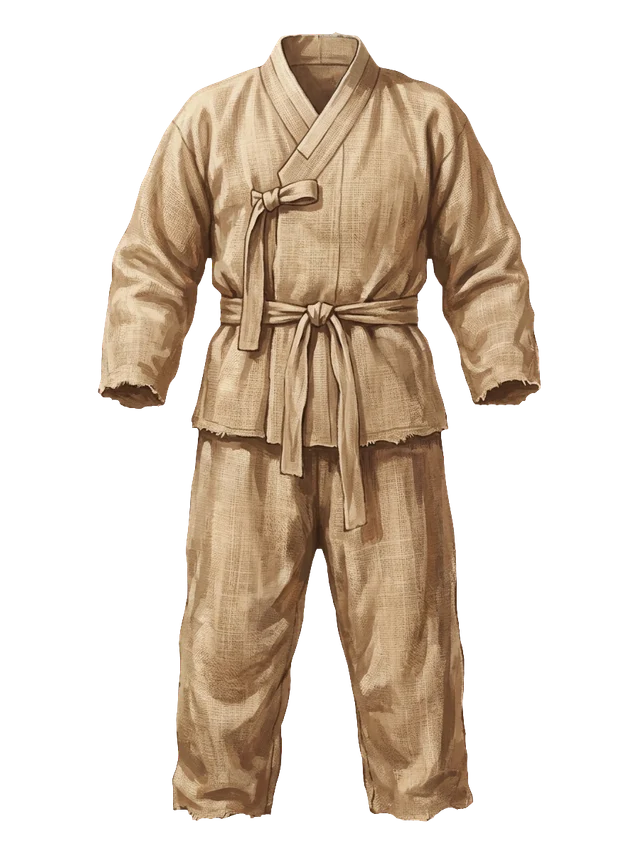
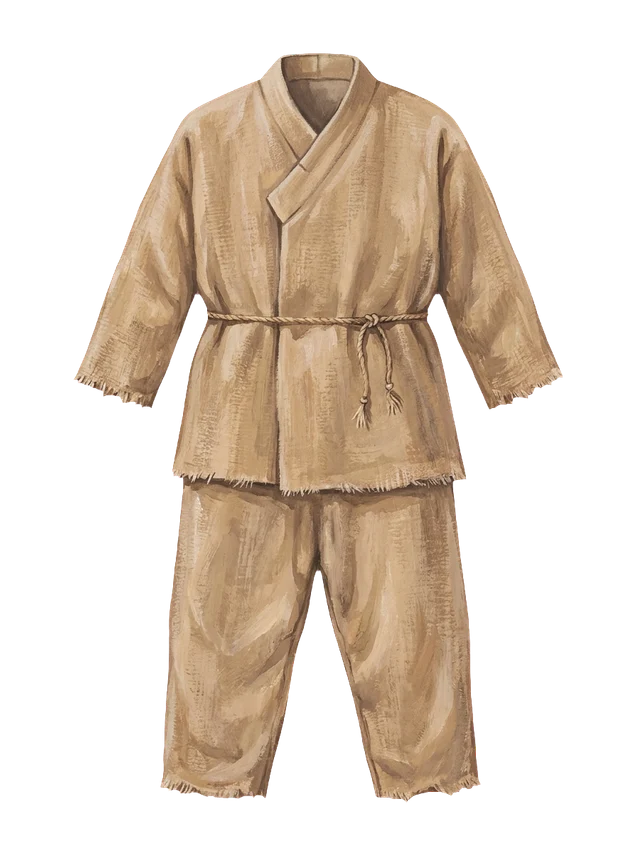
타임슬립 2차 일러스트 검수 피드백 반영 (PR #67 리뷰 대응)
- 프랑스 부르주아(bourgeoisie.webp): 창밖 삼색기·간판 글자 배제 및 거리 배경 블러 처리
- 미국 OG(og/us.webp): 19세기 개척지에서 현대 미국 주택가·소도시 풍경으로 교체
- 신라 평민 옷(silla-commoner.webp): 얇은 끈 매듭 및 여밈 완화로 삼베옷 고증 개선
- past-life-art.ts: francePeasant 일본어 alt 깨짐 복구

Changed region(s): [[0.125, 0.0305, 0.875, 0.9754]]

diff --git a/src/data/past-life-art.ts b/src/data/past-life-art.ts
@@ -8,7 +8,7 @@ export const PAST_LIFE_ART = {
   franceNoble: { file: "france/second-estate.webp", alt: { ko: "프랑스 귀족을 상상한 인물 그림", en: "An imagined French noble", ja: "フランスの貴族を想像した人物画", zh: "想象中的法国贵族", fr: "Portrait imaginaire d’un noble français", es: "Retrato imaginario de un noble francés" } },
   franceBourgeois: { file: "france/bourgeoisie.webp", alt: { ko: "프랑스 부르주아를 상상한 인물 그림", en: "An imagined French bourgeois", ja: "フランスのブルジョワを想像した人物画", zh: "想象中的法国中产市民", fr: "Portrait imaginaire d’un bourgeois français", es: "Retrato imaginario de un burgués francés" } },
   franceWorkers: { file: "france/third-estate.webp", alt: { ko: "프랑스 도시민의 만남을 상상한 그림", en: "An imagined meeting of French townspeople", ja: "フランスの町民の集まりを想像した絵", zh: "想象中的法国城镇居民聚会", fr: "Une rencontre imaginaire entre habitants d’une ville française", es: "Un encuentro imaginario entre habitantes de una ciudad francesa" } },
-  francePeasant: { file: "france/peasant.webp", alt: { ko: "프랑스 농가의 일상을 상상한 그림", en: "An imagined scene of French rural life", ja: "フランスの農가의 일상을 상상한 그림", zh: "想象中的法国农家日常", fr: "Une scène imaginaire de la vie rurale française", es: "Una escena imaginaria de la vida rural francesa" } },
+  francePeasant: { file: "france/peasant.webp", alt: { ko: "프랑스 농가의 일상을 상상한 그림", en: "An imagined scene of French rural life", ja: "フランスの農家の日常を想像した絵", zh: "想象中的法国农家日常", fr: "Une scène imaginaire de la vie rurale française", es: "Una escena imaginaria de la vida rural francesa" } },
 } as const;
 
 export type PastLifeArtKey = keyof typeof PAST_LIFE_ART;
